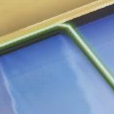
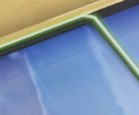
番茄馄饨豪赤

diff --git a/jczx/jczxCli.py b/jczx/jczxCli.py
@@ -55,19 +55,28 @@ class JCZXGaming(Device):
         self.fm = FileManage()
         self.task_manage = TaskManage(config_dir, log)
         self.ocr = None
+        self._context: dict[str, str] = {}
         self.stop_event = threading.Event()
     
     def set_ocr(self, ocr):
         self.ocr = ocr
-    
+
+    def context_get(self, key: str, default: str = "") -> str:
+        return self._context.get(key, default)
+
+    def context_set(self, key: str, value: str) -> None:
+        self._context[key] = str(value)
+        self.log.debug(f"上下文设置 {key} = {value}")
+
     def _get_method(self, method_name: str) -> Callable[..., Any]:
         if method_name not in self.__dir__():
             return None
         return getattr(self, method_name)
     
     _EXEC_PLACEHOLDER_PATTERN = re.compile(r"@\{(.+?)\}")
+    _CTX_PLACEHOLDER_PATTERN = re.compile(r"%\{(.+?)\}")
 
-    def resolve_exec_placeholders(self, args: list) -> list:
+    def _resolve_exec_placeholders(self, args: list) -> list:
         resolved = []
         for arg in args:
             result = self._resolve_exec_placeholder(arg)
@@ -79,9 +88,13 @@ class JCZXGaming(Device):
             return arg
         result = arg
         for match in self._EXEC_PLACEHOLDER_PATTERN.findall(arg):
-            self.log.debug(f"解析 执行占位符 {match}，原字符串 {arg}")
             exec_result = self.exec(match)
             result = result.replace("@{" + match + "}", str(exec_result) if exec_result is not None else "")
+            self.log.debug(f"解析 执行占位符 {match}，值 {exec_result}，原字符串 {arg}")
+        for match in self._CTX_PLACEHOLDER_PATTERN.findall(arg):
+            val = self.context_get(match)
+            result = result.replace("%{" + match + "}", val)
+            self.log.debug(f"解析 上下文占位符 {match}，值 {val}，原字符串 {arg}")
         return result
 
     def exec_func(self, section: Union[JczxSectionEntity, str]):
@@ -93,9 +106,9 @@ class JCZXGaming(Device):
             method_name = entity.func
             self.log.debug(f"计划预执行 section {section}")
             if method := self._get_method(method_name):
-                raw_args = entity.target + entity.args
+                raw_args = ([entity.target] if entity.target else []) + entity.args
                 args = self.task_manage.resolve_placeholders(raw_args, entity.only_key)
-                args = self.resolve_exec_placeholders(args)
+                args = self._resolve_exec_placeholders(args)
                 self.log.debug(f"开始执行方法 {method.__name__} 参数 {args}")
                 if args:
                     result = method(*args)
@@ -133,6 +146,8 @@ class JCZXGaming(Device):
         for _ in range(entity.times):
             if self.stop_event.is_set():
                 return None
+            self.log.debug(f"开始动态执行 {entity.get_task_name()} {entity}")
+            time.sleep(entity.pre_sleep)
             for key in entity.action:
                 if self.stop_event.is_set():
                     return None
@@ -140,6 +155,8 @@ class JCZXGaming(Device):
                 result_str = str(result) if result is not None else ""
                 if result_str:
                     self.exec(result_str)
+            time.sleep(entity.sleep)
+            self.log.debug(f"动态执行完成 {entity.get_task_name()}") if entity.get_task_name() else None
         return None
 
     def exec_click(self, section: Union[JczxSectionEntity, str]):
@@ -153,7 +170,7 @@ class JCZXGaming(Device):
             if entity.pos:
                 self.click(*entity.pos)
             else:
-                target = entity.target[0] if entity.target else None
+                target = entity.target
                 target = self._resolve_placeholder(target)
                 target = self._resolve_exec_placeholder(target) if target else None
                 img = self.task_manage.get_img(target) if target else None
@@ -216,6 +233,13 @@ class JCZXGaming(Device):
     def get_resources_target(self, target: str):
         rel_path = "\\".join(["resources"] + target.split("\\"))
         return str(self.fm.get_obj_relative_path(rel_path, self))
+
+    def exec_task_raw(self, section: Union[JczxSectionEntity, str]):
+        self._context.clear()
+        try:
+            return self.exec_task(section)
+        finally:
+            self._context.clear()
 
     def exec_task(self, section: Union[JczxSectionEntity, str]):
         entity = section if isinstance(section, JczxSectionEntity) else self.task_manage.get_entity(section)
@@ -554,7 +578,7 @@ class JczxTUI(App, JczxCli):
 
     def _run_task(self, entity: JczxSectionEntity, task_id: str) -> None:
         try:
-            self.device.exec_task(entity)
+            self.device.exec_task_raw(entity)
         except Exception as e:
             self.logger.error("任务执行异常: %s", e)
         finally:
@@ -613,8 +637,9 @@ class JczxTUI(App, JczxCli):
         self.task_manage.save_task_values(self._settings_task_id, event.values)
         self.logger.info("任务设置已保存: task=%s, values=%s",
                          self._settings_task_id, event.values)
-        self._reload_configs()
-        self.logger.debug("配置已自动重载")
+        if self.device is not None:
+            self.device.task_manage.menu_config = self.task_manage.menu_config
+            self.logger.debug("已同步配置到设备端")
 
     # ── TaskEditorPanel handlers ─────────────────────────
 

diff --git a/jczx/taskManage.py b/jczx/taskManage.py
@@ -68,7 +68,12 @@ class TaskManage:
         configs = self.menu_config.trans_entity_dict(JczxSectionEntity)
         put_size, fail_size = 0, 0
         for config_entity in configs.values():
-            for target in config_entity.target:
+            targets = config_entity.target
+            if not targets:
+                continue
+            if isinstance(targets, str):
+                targets = [targets]
+            for target in targets:
                 rel_target = self.get_resources_target(target)
                 if not self.fm.isfile(rel_target):
                     self.log.debug(f"图片路径 {target} 不存在，跳过加载")
@@ -214,6 +219,23 @@ class TaskManage:
             self.menu_config.set_config(section, field_name, str(val))
         self.menu_config.save()
         self.log.debug(f"任务 {task_key} 设置已保存: {values}")
+        self._update_entities_after_save(task_key)
+
+    def _update_entities_after_save(self, task_key: str) -> None:
+        entity = self.get_task(task_key)
+        if not entity or not entity.settings:
+            return
+        try:
+            settings_section = self.menu_config.get_config(task_key, "settings")
+        except KeyError:
+            return
+        if not settings_section:
+            return
+        settings_entity = self._get_setting_entity(settings_section, SectionType.SETTINGS)
+        if not settings_entity:
+            return
+        self.entity_pool[settings_section] = settings_entity
+        self.log.debug(f"已刷新实体 {settings_section}")
 
     _PLACEHOLDER_PATTERN = re.compile(r"\$\{(.+?)\}")
 

diff --git a/jczx/configEntity.py b/jczx/configEntity.py
@@ -2,7 +2,7 @@ from dataclasses import dataclass, field
 from enum import Enum
 from typing import get_type_hints, get_origin, get_args
 
-LIST_STR_ATTRS = ["target", "list_targets", "action", "list_actions", "choose_tasks", "args", "pos", "condition_then", "condition_else"]
+LIST_STR_ATTRS = ["list_targets", "action", "list_actions", "choose_tasks", "args", "pos", "condition_then", "condition_else"]
 
 class SectionType(Enum):
     TASK = "task"
@@ -45,7 +45,7 @@ class BaseEntity:
 @dataclass
 class JczxSectionEntity(BaseEntity):
     type: str = None
-    target: list[str] = field(default_factory=list)
+    target: str = None
     func: str = None
     index: int = 0
     name: str = None
@@ -53,8 +53,8 @@ class JczxSectionEntity(BaseEntity):
     action: list[str] = field(default_factory=list)
     args: list[str] = field(default_factory=list)
     pos: list[int] = field(default_factory=list)
-    pre_sleep: int = 0
-    sleep: int = 0
+    pre_sleep: float = 0
+    sleep: float = 0
     per: float = 0.8
     max_wait: int = 0
     wait_sec: list[str] = field(default_factory=list)

diff --git a/TASK_CONFIG_GUIDE.md b/TASK_CONFIG_GUIDE.md
@@ -75,8 +75,8 @@ adb.path : platform-tools/adb.exe
 | `times` | int | `1` | 执行次数，func / task / click / dynamic 均支持 |
 | `view` | str | `off` | 控制 task 在 TUI 任务列表中是否显示。`on`=显示，`off`=隐藏 |
 | `only_key` | str | — | 系统自动赋值：当前 section 的名称，用于占位符短格式解析 |
-| `pre_sleep` | int | `0` | 执行前等待秒数 |
-| `sleep` | int | `0` | 执行后等待秒数 |
+| `pre_sleep` | float | `0` | 执行前等待秒数 |
+| `sleep` | float | `0` | 执行后等待秒数 |
 | `extend` | str | — | 继承另一个实体的所有字段（详见下方继承章节） |
 
 #### task 类型专用
@@ -108,7 +108,7 @@ adb.path : platform-tools/adb.exe
 | `condition_not` | str | — | 反向条件实体 key，该实体执行成功则跳过匹配 |
 | `condition_then` | list[str] | `[]` | 条件满足时转而执行的实体 key 列表（正向分支） |
 | `condition_else` | list[str] | `[]` | 条件不满足时转而执行的实体 key 列表（反向分支） |
-| `wait_sec` | list[str] | `[]` | 每次匹配失败后的等待操作实体 key 列表 |
+| `wait_sec` | list[str] | `[]` | 等待过程中执行的操作实体 key 列表 |
 | `index` | int | `0` | 指定 target 匹配的结果 的索引 |
 
 #### dynamic 类型专用
@@ -186,6 +186,49 @@ args: @{get-device-name},${screenshot-name}
 `use-device-name` 运行时：
 1. `${screenshot-name}` → 从配置取值
 2. `@{get-device-name}` → 执行 `get-device-name` 实体，返回值替换
+
+---
+
+## 上下文变量 `%{...}`
+
+任务执行期间可创建临时上下文变量，在任务链中传递数据，任务完成后自动释放。
+
+### 内建方法
+
+| 方法 | 参数 | 说明 |
+|------|------|------|
+| `context_set` | key, value | 写入上下文变量 |
+| `context_get` | key, default | 读取上下文变量，未设置时返回 default |
+
+### 占位符
+
+| 形式 | 含义 |
+|------|------|
+| `%{key}` | 读取上下文变量 key 的值，未设置时为空字符串 |
+
+### 示例
+
+```ini
+[save-name-to-ctx]
+type: func
+func: context_set
+args: filename,screenshot_001
+
+[use-ctx-value]
+type: func
+func: save_screenshot
+args: %{filename}
+```
+
+`use-ctx-value` 运行时，`%{filename}` 被替换为 `screenshot_001`。
+
+### 占位符解析顺序
+
+`func` 的 `args` / `target` 按以下顺序解析：
+
+1. `${...}` — 从配置文件读取值
+2. `@{...}` — 执行实体获取返回值
+3. `%{...}` — 从上下文变量读取值
 
 ---
 